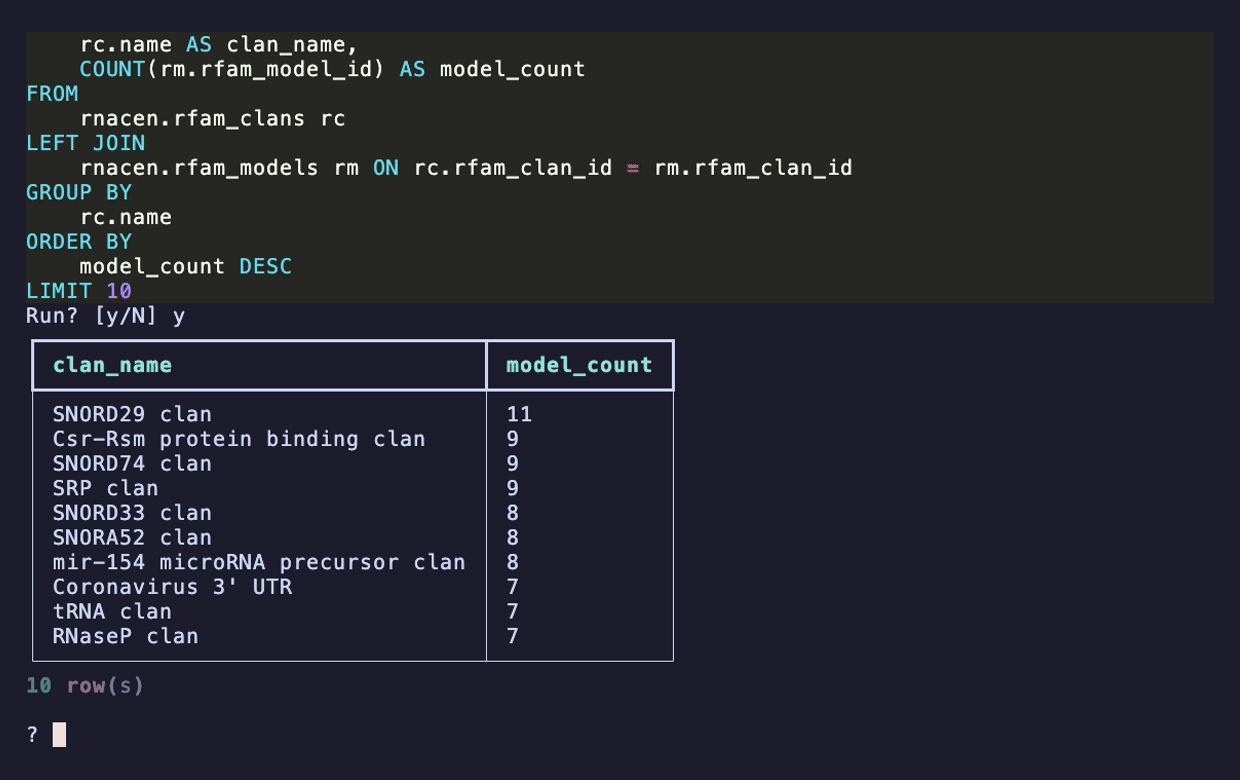
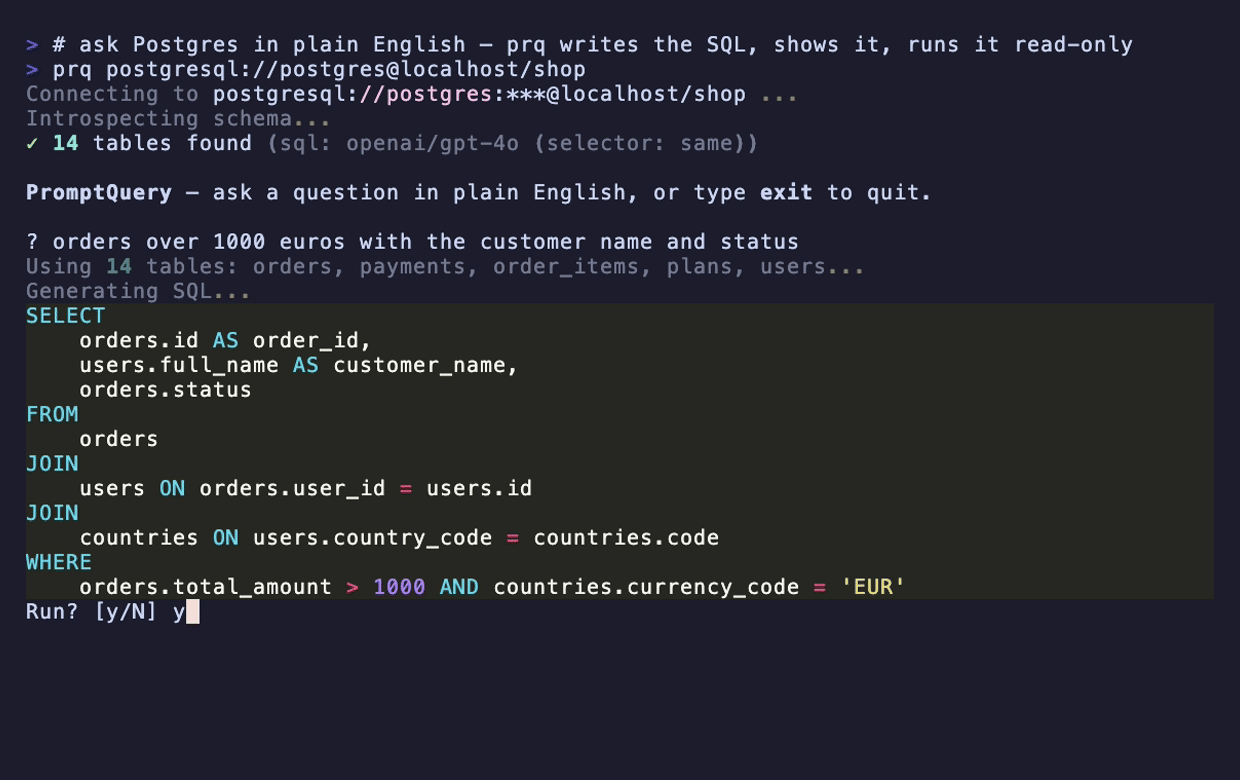
README: swap the demo GIF for an e-commerce example, drop the ASCII mock
The old GIF ran against EMBL-EBI's RNAcentral (biology). Replaced it with a
recording against the seeded shop fixture so the demo question reads like
something every backend dev recognises — "orders over 1000 euros with the
customer name and status". prq joins orders -> users -> countries on its own
and filters countries.currency_code = 'EUR', which shows the FK-graph
expansion better than a single-table query. Dropped the static ASCII block
now that the GIF carries the same kind of example.

- docs/demo.gif: new recording (shop fixture, ~14s, faster)
- README.md: update caption + alt text, remove the ASCII code block

diff --git a/README.md b/README.md
@@ -10,39 +10,9 @@
 PromptQuery is an open-source CLI that lets you query Postgres in plain English — engineered for **real production schemas with hundreds of tables**, not toy demos. It introspects your schema, generates SQL, shows it for confirmation, and runs it read-only.
 
 <p align="center">
-  <img src="https://raw.githubusercontent.com/Cyberfilo/promptquery/main/docs/demo.gif" alt="PromptQuery turning a plain-English question into correct SQL against EMBL-EBI's public 216-table RNAcentral database, then showing the result table" width="820">
+  <img src="https://raw.githubusercontent.com/Cyberfilo/promptquery/main/docs/demo.gif" alt="PromptQuery turning the plain-English question 'orders over 1000 euros with the customer name and status' into a correct multi-table JOIN — showing the SQL, asking for confirmation, then printing the result rows" width="820">
 </p>
-<p align="center"><sub>Live and unedited, against EMBL-EBI's public <strong>216-table</strong> RNAcentral database. <a href="#try-it-without-setting-up-a-database">Run the exact same connection yourself ↓</a></sub></p>
-
-```
-$ prq postgresql://prod-db/mycompany
-✓ 675 tables found (sql: openai/gpt-4o, selector: openai/gpt-4o-mini)
-
-PromptQuery — ask a question in plain English, or type "exit".
-
-? unpaid invoices over EUR 1000 with the customer name
-Selecting from 50 candidates...
-Generating SQL...
-Using 14 tables: account_move, res_partner, account_payment, ...
-
-  SELECT am.name AS invoice,
-         am.amount_total AS total,
-         p.name AS customer
-  FROM account_move am
-  JOIN res_partner p ON p.id = am.partner_id
-  WHERE am.move_type = 'out_invoice'
-    AND am.payment_state IN ('not_paid', 'partial')
-    AND am.amount_total > 1000
-  ORDER BY am.amount_total DESC;
-
-Run? [y/N] y
-
- invoice       │   total │ customer
-───────────────┼─────────┼──────────────────────
- INV/2026/0042 │ 1899.00 │ Marco Rossi
- INV/2026/0067 │ 1299.00 │ Acme Industries SRL
-2 row(s)
-```
+<p align="center"><sub>Plain English in → the SQL it's about to run → your rows. Read-only, with a confirmation step. Here it even reads <em>"euros"</em> as a currency join across three tables. <a href="#try-it-without-setting-up-a-database">Try it yourself on a live 216-table database, no setup ↓</a></sub></p>
 
 ---
 
